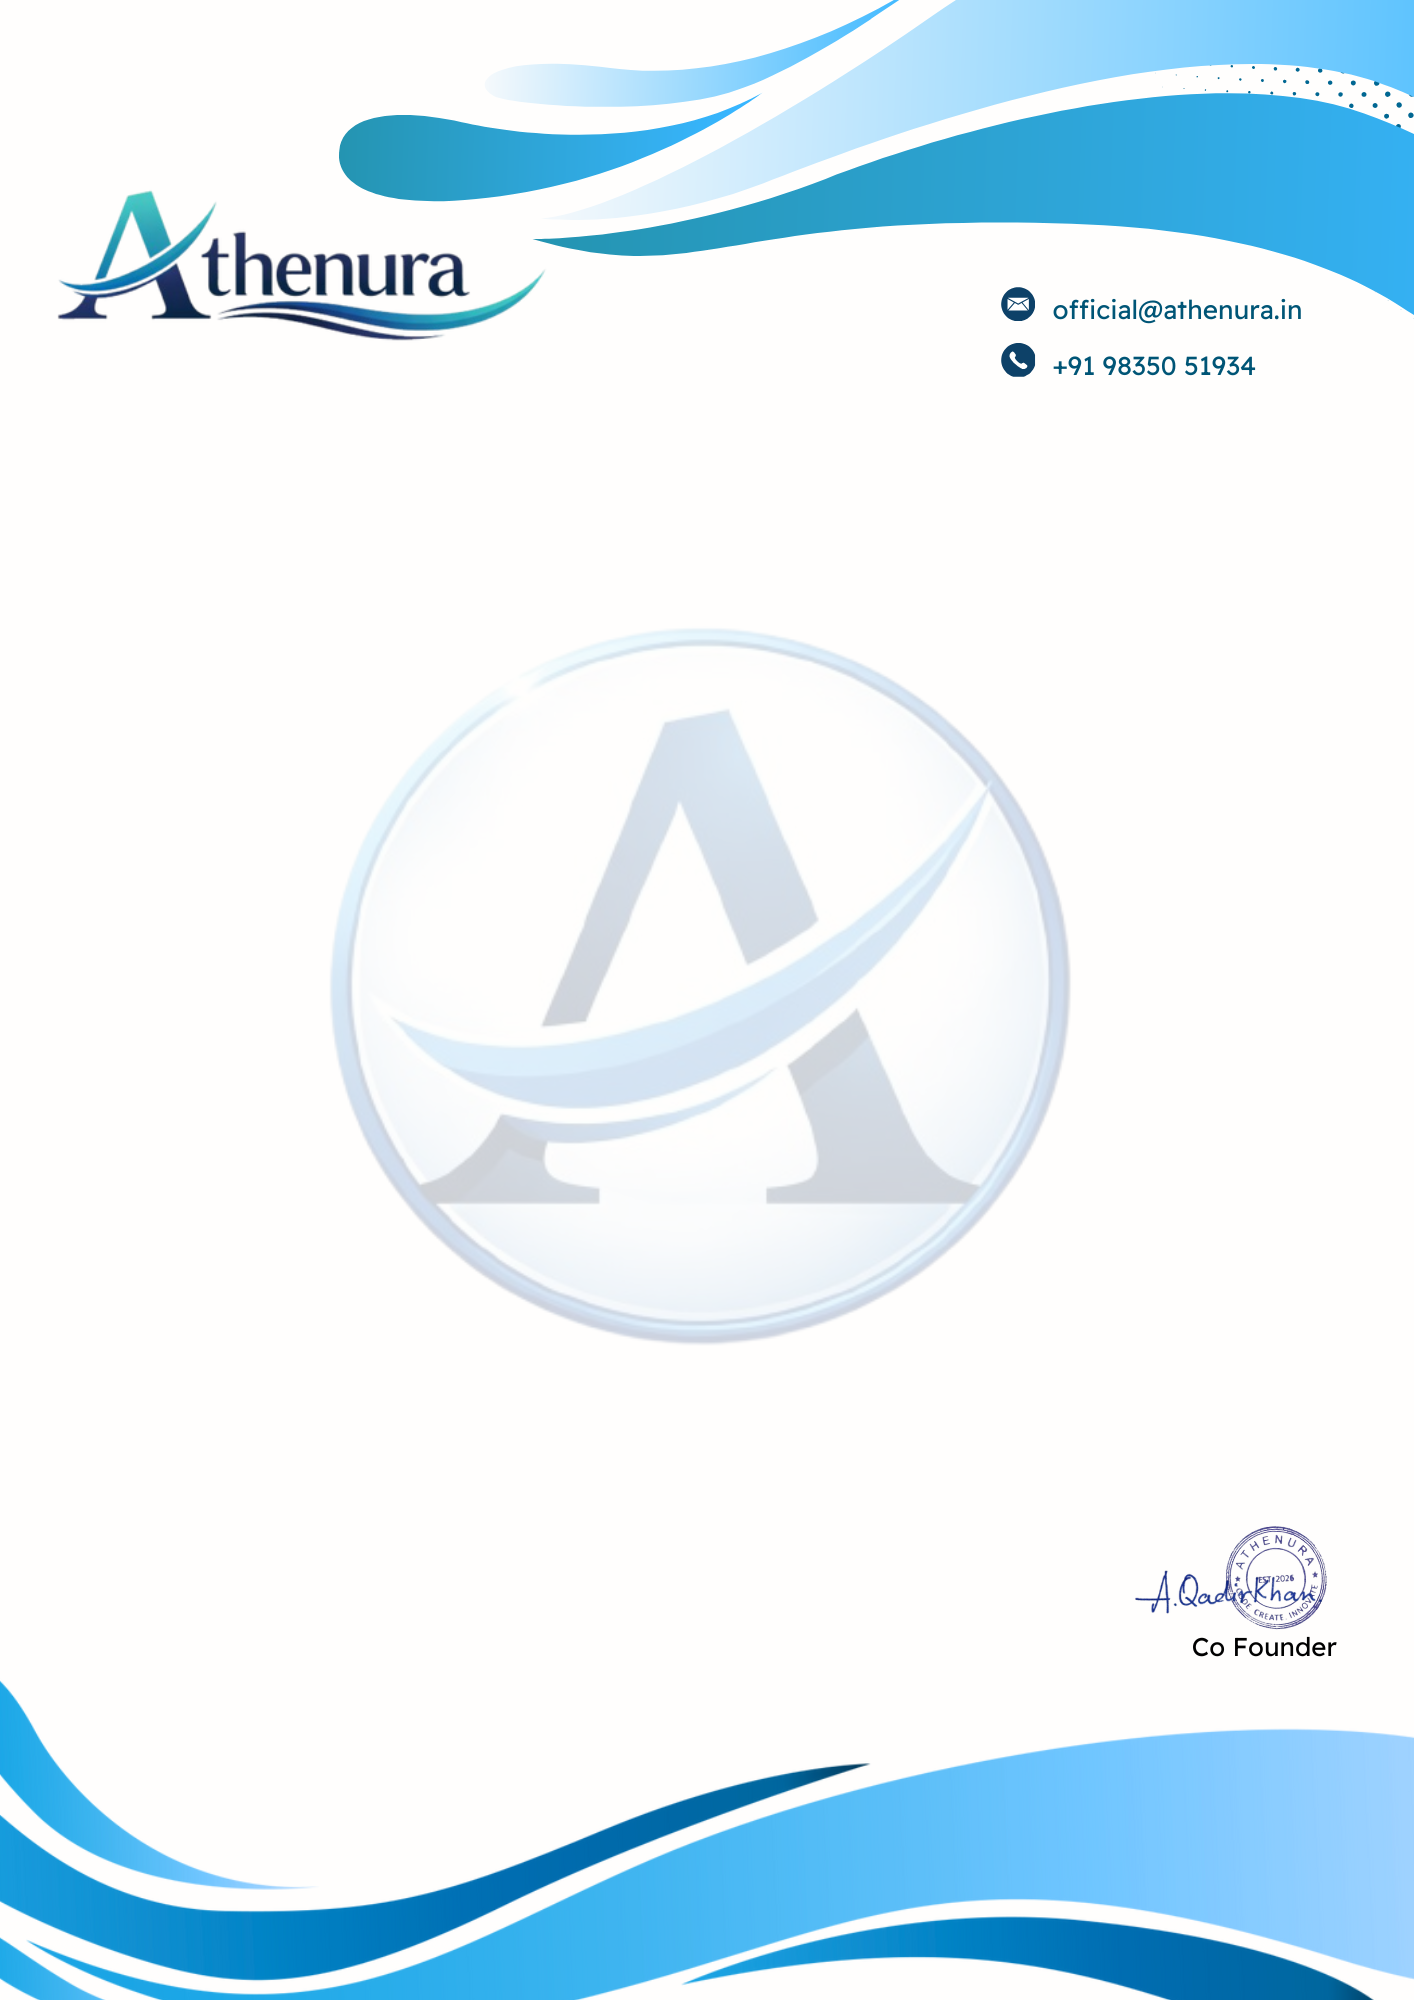
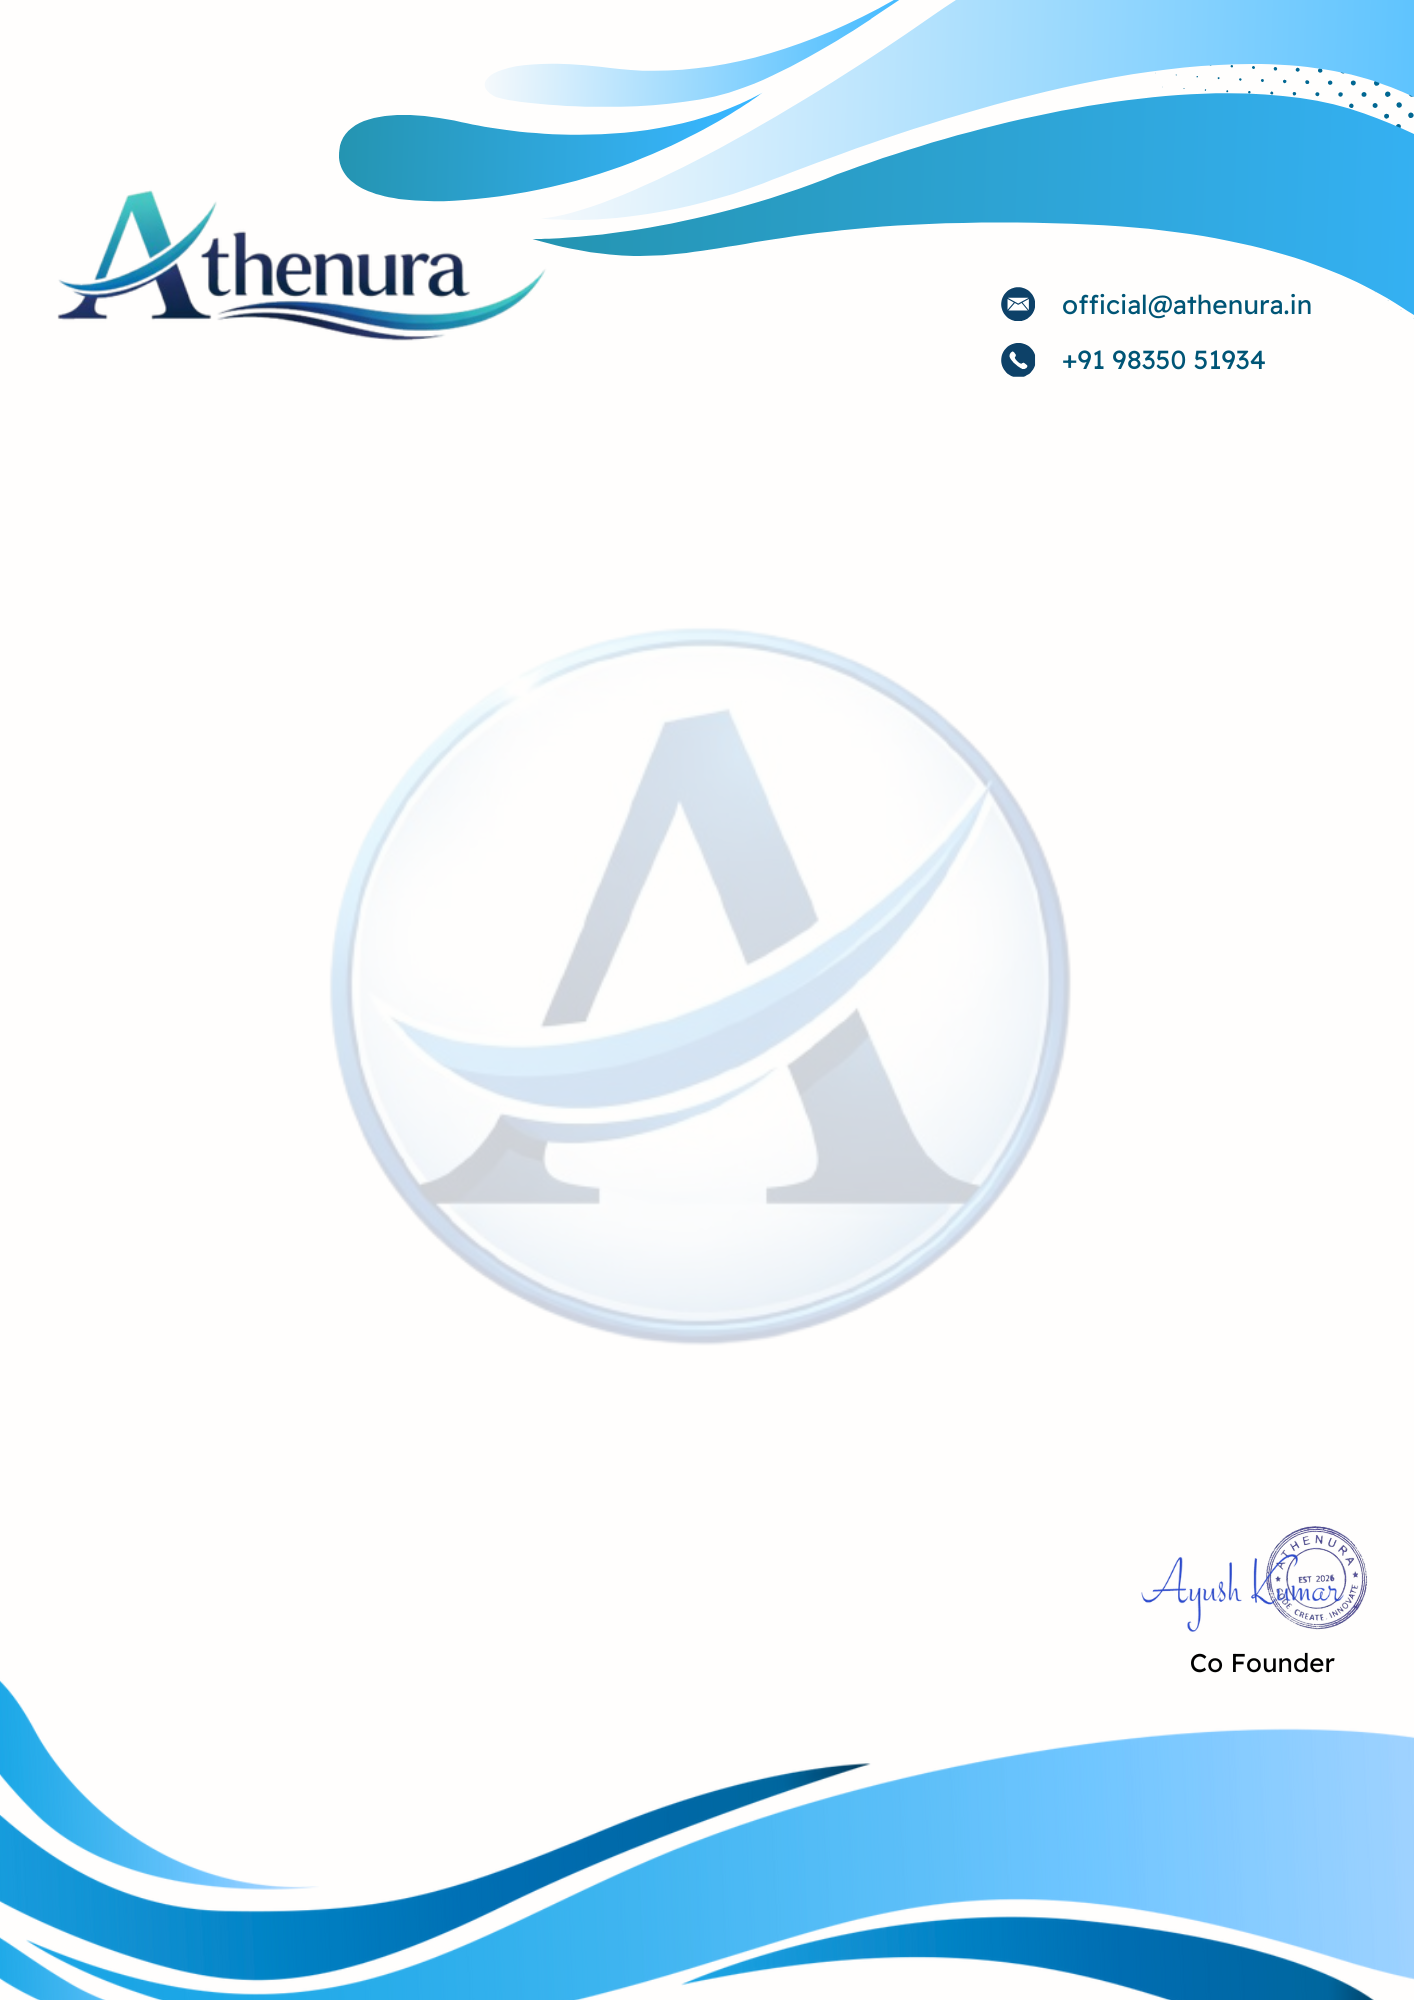
Updated

Changed region(s): [[0.8091, 0.744, 0.9646, 0.837], [0.7468, 0.124, 0.9024, 0.186]]

diff --git a/FrontEnd/src/pages/VerifyPortal/VerificationIntern.jsx b/FrontEnd/src/pages/VerifyPortal/VerificationIntern.jsx
@@ -416,7 +416,7 @@ const InternVerificationPortal = () => {
         }
 
         .sig-img {
-          max-height: 110px;
+          max-height: 70px;
           margin-top: 20px;
           mix-blend-mode: multiply;
         }
